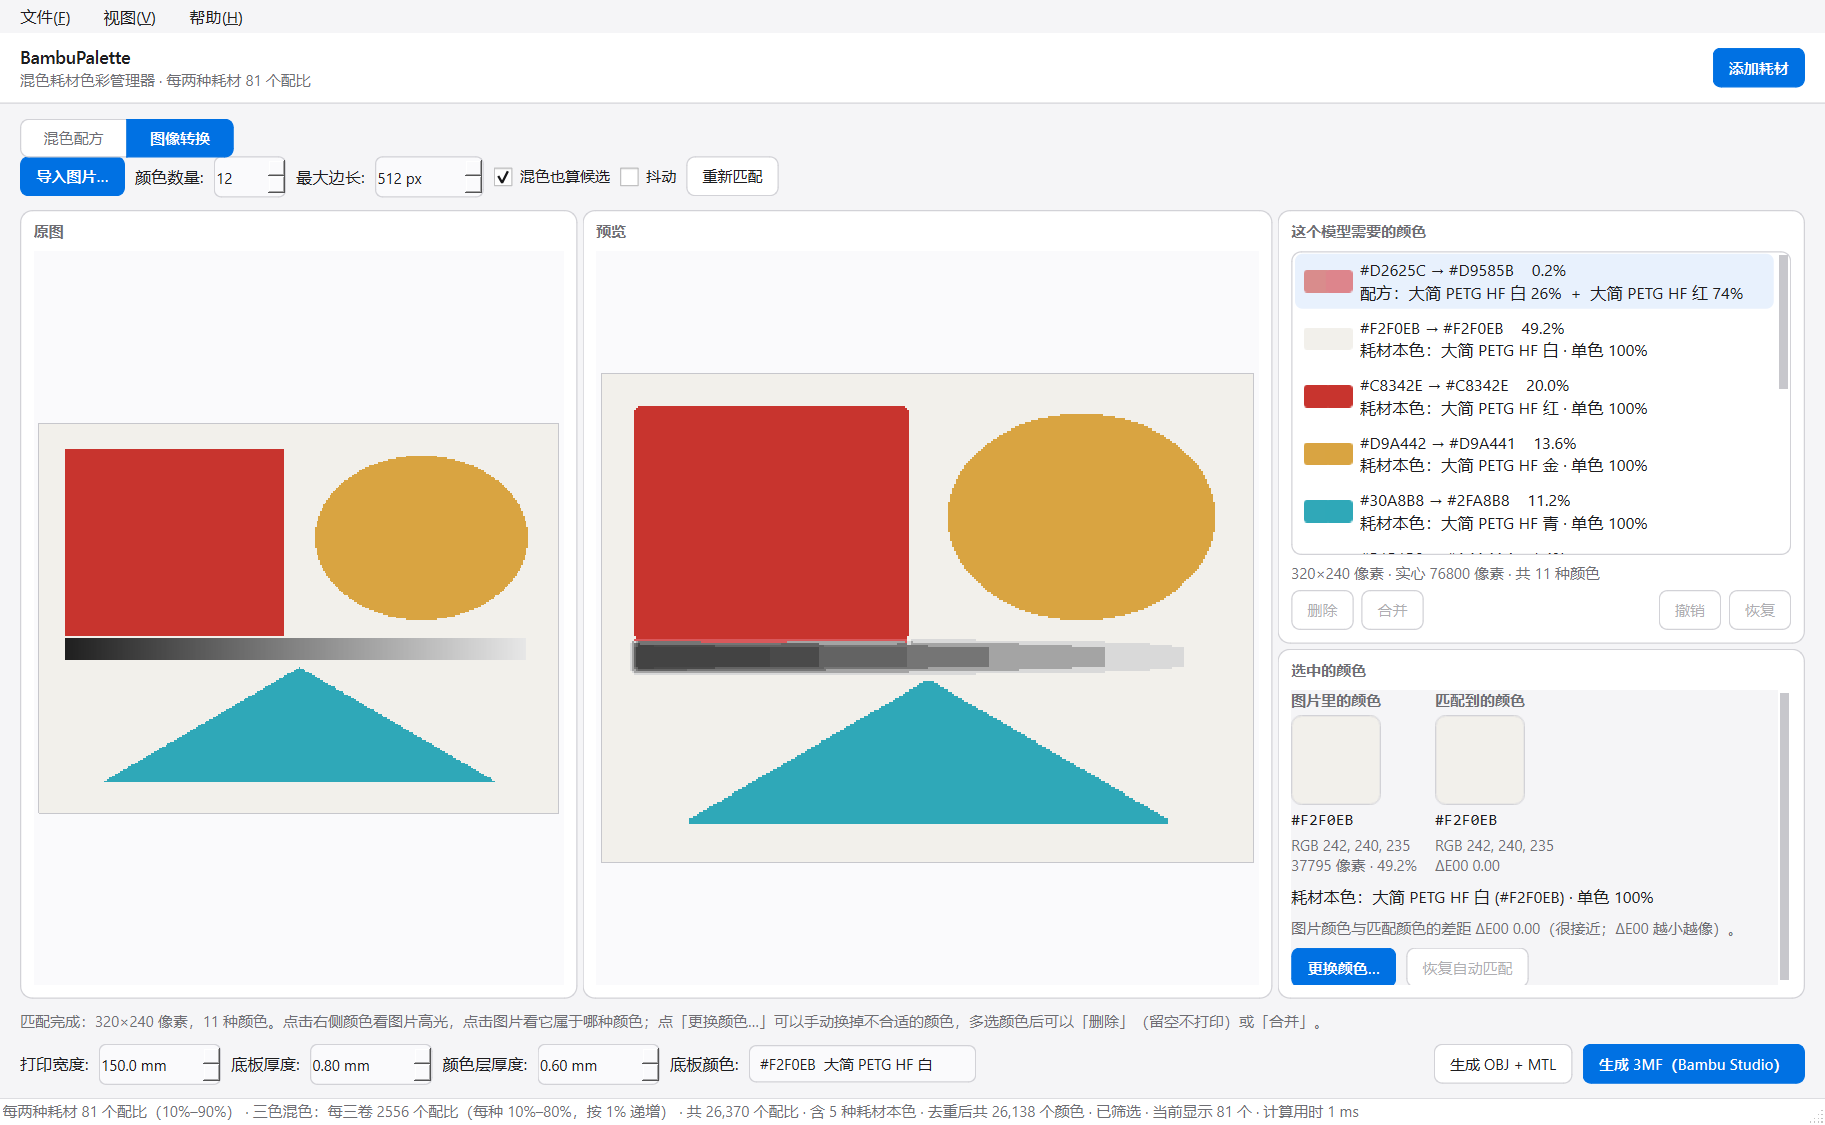
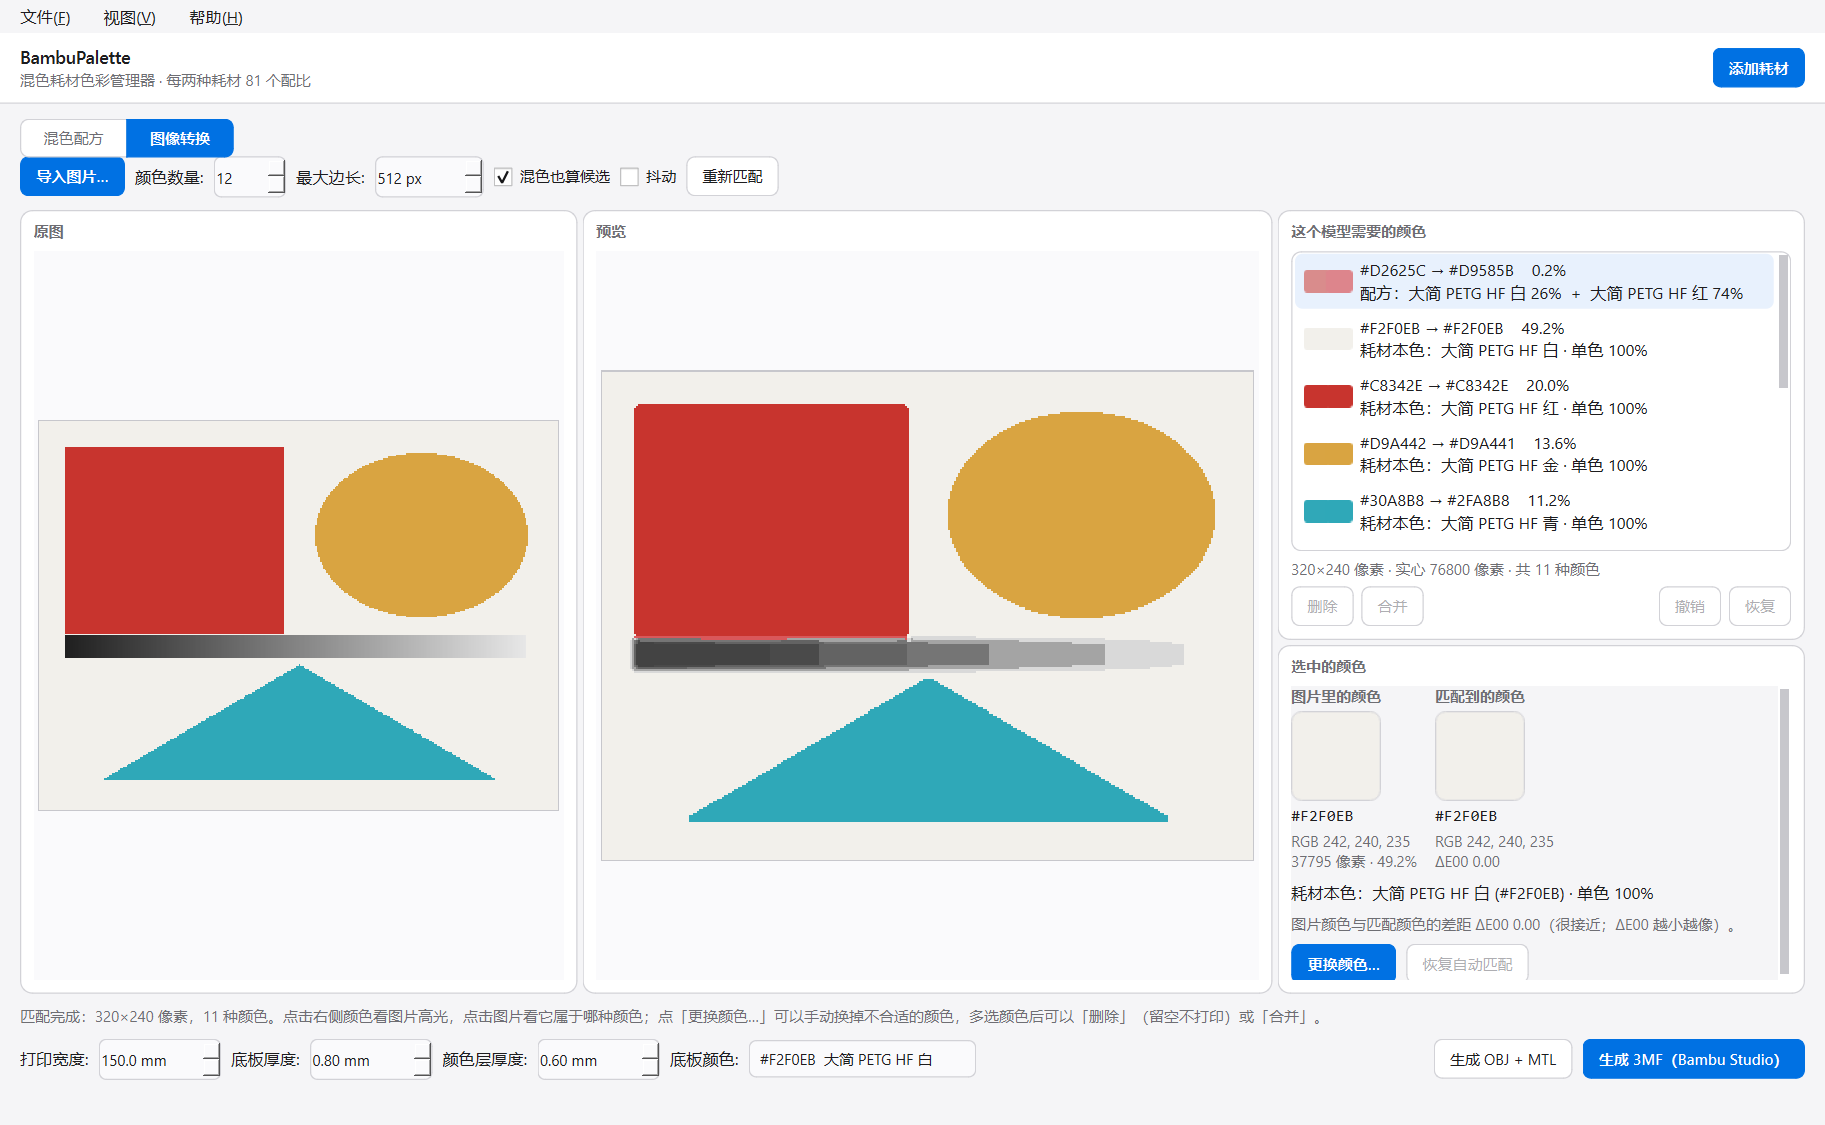
v1.6.1：底部说明在小窗口里完整折行，并且不再出现在「图像转换」页

diff --git a/app/ui/main_window.py b/app/ui/main_window.py
@@ -273,12 +273,37 @@ class MainWindow(QMainWindow):
         tabs.addTab(mix_page, "混色配方")
         tabs.addTab(self._picture_page, "图像转换")
         self._tabs = tabs
+        # Connected only once _tabs exists: adding the first tab already emits
+        # currentChanged, and the slot reads self._tabs.
+        tabs.currentChanged.connect(self._on_tab_changed)
 
         body = QWidget()
         layout = QVBoxLayout(body)
         layout.setContentsMargins(16, 12, 16, 10)
         layout.setSpacing(10)
         layout.addWidget(tabs, 1)
+
+        # The bottom line carries the one long sentence that explains how the
+        # whole table is built, plus the transient 「正在计算…」 / 「最接近…」
+        # messages.  It is a single line of ~1400 px at a normal font size, so
+        # two things matter:
+        #
+        # * it must be allowed to shrink (``Ignored`` horizontally), or its
+        #   minimumSizeHint becomes the window's minimum width — before it moved
+        #   here it lived in the grid panel and pinned that panel so hard the
+        #   splitter handle could not be dragged at all;
+        # * it must wrap, and live in a layout that honours the wrapped height,
+        #   or a 1020 px window silently clips the tail of the sentence.
+        #
+        # That is why it is the last row of the page body rather than an item in
+        # a QStatusBar: a status bar is one line high and would clip the second
+        # line the moment the sentence wraps.  The tooltip still carries the
+        # whole text for anyone who would rather hover than read.
+        self._status = QLabel("")
+        self._status.setProperty("role", "hint")
+        self._status.setWordWrap(True)
+        self._status.setSizePolicy(QSizePolicy.Policy.Ignored, QSizePolicy.Policy.Minimum)
+        layout.addWidget(self._status)
 
         central = QWidget()
         outer = QVBoxLayout(central)
@@ -287,18 +312,6 @@ class MainWindow(QMainWindow):
         outer.addWidget(topbar)
         outer.addWidget(body, 1)
         self.setCentralWidget(central)
-
-        # The bottom line carries the one long sentence that explains how the
-        # whole table is built.  It is a single unwrapped line of ~1400 px, so
-        # without an Ignored horizontal policy its minimumSizeHint would become
-        # the window's minimum width — and, before it moved here, the splitter's
-        # handle could not be dragged at all because the grid panel was pinned to
-        # that same width.  Ignored lets it shrink; the tooltip keeps the whole
-        # sentence reachable when the window is narrow.
-        self._status = QLabel("")
-        self._status.setProperty("role", "hint")
-        self._status.setSizePolicy(QSizePolicy.Policy.Ignored, QSizePolicy.Policy.Preferred)
-        self.statusBar().addWidget(self._status, 1)
 
         # Every hint, recipe and status line is text worth pasting elsewhere.
         selectable_text(self)
@@ -989,12 +1002,16 @@ class MainWindow(QMainWindow):
                 self._grid.setSelectedIndex(index, scroll=False)
         self._update_status()
 
+    def _on_tab_changed(self, index: int) -> None:
+        """The colour-table note belongs to 混色配方, so re-evaluate it."""
+        self._update_status()
+
     def _set_status_text(self, text: str) -> None:
         """Write the bottom line, keeping the full sentence in the tooltip.
 
-        The label is a single unwrapped line with an Ignored width policy, so a
-        long sentence is clipped rather than forcing the window wider.  The
-        tooltip is what makes the hidden tail reachable.
+        The label wraps, so a long sentence folds onto a second line instead of
+        forcing the window wider or being clipped — but its tail is still worth
+        keeping in the tooltip for a single-glance read.
         """
         self._status.setText(text)
         self._status.setToolTip(text)
@@ -1032,6 +1049,11 @@ class MainWindow(QMainWindow):
             note += " · 正在计算三色混色"
         elif self._build_seconds:
             note += f" · 计算用时 {self._build_seconds * 1000:.0f} ms"
+        if self._tabs.currentIndex() != 0:
+            # The sentence is about the colour table.  On 图像转换 it describes
+            # nothing the reader can see, and the picture page has a status line
+            # of its own right above this one.
+            note = ""
         self._set_status_text(note)
         self._update_filter_bar(shown, everything, count)
 

diff --git a/tools/smoke_app.py b/tools/smoke_app.py
@@ -553,9 +553,9 @@ def main() -> int:
     # Issue 4: the right-hand pane could not be dragged — it snapped.  A QLabel
     # holding the ~1400 px one-line note had no word wrap, and a non-wrapping
     # QLabel's minimumSizeHint IS that full width, so the grid pane pinned the
-    # splitter.  The note now lives in the status bar with an Ignored width
-    # policy, so no pane can be wider than the window by accident.
-    from PySide6.QtWidgets import QSizePolicy, QSplitter  # noqa: E402
+    # splitter.  The note now lives at the bottom of the page body with an
+    # Ignored width policy, so no pane can be wider than the window by accident.
+    from PySide6.QtWidgets import QSizePolicy, QSplitter, QStatusBar  # noqa: E402
 
     splitter = triple_window._tabs.widget(0).findChild(QSplitter)
     check(splitter is not None, "the 混色配方 page still has its splitter")
@@ -570,6 +570,33 @@ def main() -> int:
             == QSizePolicy.Policy.Ignored,
             "the bottom line lets the window shrink instead of pinning its width",
         )
+    # And it must WRAP: at the minimum window size a one-line status bar clipped
+    # the tail of the sentence mid-glyph.  So it is a wrapping label in the body
+    # layout (which honours height-for-width), not an item in a QStatusBar.
+    check(triple_window._status.wordWrap(), "the bottom line wraps instead of clipping")
+    check(
+        triple_window._status.sizePolicy().hasHeightForWidth(),
+        "the layout is told the wrapped height, so the second line is not cut off",
+    )
+    check(
+        triple_window.findChild(QStatusBar) is None,
+        "the window has no one-line status bar to clip the sentence",
+    )
+
+    # The sentence is about the colour table, so 图像转换 must not show it.
+    tab_note = triple_window._status.text()
+    triple_window._tabs.setCurrentIndex(1)
+    app.processEvents()
+    check(
+        triple_window._status.text() == "",
+        f"the colour-table sentence is hidden on 图像转换, got {triple_window._status.text()[:40]!r}",
+    )
+    triple_window._tabs.setCurrentIndex(0)
+    app.processEvents()
+    check(
+        triple_window._status.text() == tab_note,
+        "switching back to 混色配方 restores the colour-table sentence",
+    )
     triple_window.close()
 
     # --- the grid's flat layout, exercised with a stub -------------------------

diff --git a/app/selftest.py b/app/selftest.py
@@ -544,6 +544,7 @@ def run_selftest(*, report_path: Path | None = None) -> int:
     from PySide6.QtWidgets import QLabel as _QLabel
     from PySide6.QtWidgets import QSizePolicy as _QSizePolicy
     from PySide6.QtWidgets import QSplitter as _QSplitter
+    from PySide6.QtWidgets import QStatusBar as _QStatusBar
 
     from .spectral import color as _selftest_colour
 
@@ -555,6 +556,24 @@ def run_selftest(*, report_path: Path | None = None) -> int:
     check(
         window._status.sizePolicy().horizontalPolicy() == _QSizePolicy.Policy.Ignored,
         "the bottom line can never pin the window's width",
+    )
+    check(window._status.wordWrap(), "the bottom line wraps instead of clipping its tail")
+    check(
+        window.findChild(_QStatusBar) is None,
+        "the sentence is not in a one-line status bar that would cut it off",
+    )
+    tab_note = window._status.text()
+    window._tabs.setCurrentIndex(1)
+    app.processEvents()
+    check(
+        window._status.text() == "",
+        f"the colour-table sentence is hidden on 图像转换, got {window._status.text()[:40]!r}",
+    )
+    window._tabs.setCurrentIndex(0)
+    app.processEvents()
+    check(
+        window._status.text() == tab_note,
+        "switching back to 混色配方 restores the colour-table sentence",
     )
     recipe_splitter = window._tabs.widget(0).findChild(_QSplitter)
     if recipe_splitter is not None:

diff --git a/app/__init__.py b/app/__init__.py
@@ -2,6 +2,6 @@
 
 from __future__ import annotations
 
-__version__ = "1.6.0"
+__version__ = "1.6.1"
 APP_NAME = "BambuPalette"
 APP_NAME_ZH = "混色耗材色彩管理器"

diff --git a/docs/算法说明.md b/docs/算法说明.md
@@ -1283,14 +1283,36 @@ def _dim_pixmap(self):
 宽度**——于是这个标签的最小宽度成了 1400 px，中间那一栏再也压不下去，
 `QSplitter` 的拖动条只能「啪」地跳到另一个位置，看起来像拖不动。
 
-所以这条说明搬到了**底部状态栏**，并且给状态栏标签设了
+所以这条说明搬到了**底部**，并且给标签设了
 
 ```python
-self._status.setSizePolicy(QSizePolicy.Policy.Ignored, QSizePolicy.Policy.Preferred)
+self._status.setWordWrap(True)
+self._status.setSizePolicy(QSizePolicy.Policy.Ignored, QSizePolicy.Policy.Minimum)
 ```
 
 `Ignored` 的意思是「窗口变窄时尽管压我」，它于是只会折行、不会顶宽窗口。
-完整文字同时塞进 tooltip，折行折掉的尾巴仍然看得到。
+完整文字同时塞进 tooltip，万一还没看全，悬停也能读到。
+
+**这里踩过一次坑，值得记下来。** 第一版把它放在 `QMainWindow` 的
+`QStatusBar` 里，只设了 `Ignored` 却没设换行。`Ignored` 解决了「顶宽窗口」，
+却没解决「装不下」：状态栏只有一行高，1020×640（程序的最小尺寸）下这句话
+在第一个中文字符的中间被硬切掉，连省略号都没有。`setWordWrap(True)` 单独
+也救不了——`QStatusBar` 不会因为子标签变高就长高。
+
+所以它现在是**页面主体布局的最后一行**：
+
+```python
+layout.addWidget(tabs, 1)
+layout.addWidget(self._status)
+```
+
+`QLabel` 开了换行之后 `hasHeightForWidth()` 为真，`QVBoxLayout` 会照着折行后的
+高度给它让位，第二行就完整露出来了。代价是 `QMainWindow` 从此不再创建状态栏
+（也就没有了右下角那个拖拽改窗口大小的小三角），换来一句话任何时候都读得全。
+
+再往后一步：这句话讲的是颜色表，那么在**「图像转换」页就是废话**——而且那一页
+自己上边已经有一条状态行了。所以 `_tabs.currentChanged` 接到 `_on_tab_changed`，
+切页时重新算一次，当前页不是「混色配方」就把 `note` 置空。
 
 顺带一提，网格面板下部原来还有一行「耗材 5 种 · 母材组合 10 对 · 混色 810 个
 · 去掉重复后 809 个颜色 · 计算用时 4 ms」，和这条说明说的是同一件事，

diff --git a/README.md b/README.md
@@ -39,7 +39,7 @@
    - 2 种耗材 → 81 个混色 + 2 个本色 = **83 个颜色**
    - 3 种耗材 → 243 + 3 = **246 个颜色**
    - 本色项**跟着「排序」下拉框排在同一条队列里**，不会被顶到最前面。按 RGB 时它就是按 RGB 插在中间（例如 `#17181C` 排在最暗的位置），按明度 / 色相 / 名称也一样；只有「按母材组合」会让它们聚在最前面，因为它们本来就不属于任何一对母材。
-   - 表格**下面是状态栏那一行**，写着当前规则的完整说明（两色 81 个配比、三色每三卷 2556 个配比、共多少个配比 / 本色 / 去重后多少个颜色、按什么排列、筛选时另外有多少个没显示）。窗口窄的时候它会自己折行，**不会把窗口撑宽**——左边「我的耗材」和右边「混色配方」之间的分隔条可以随便拖。
+   - 表格**下面是状态栏那一行**，写着当前规则的完整说明（两色 81 个配比、三色每三卷 2556 个配比、共多少个配比 / 本色 / 去重后多少个颜色、按什么排列、筛选时另外有多少个没显示）。窗口窄的时候它会自己折行，**不会把窗口撑宽**——左边「我的耗材」和右边「混色配方」之间的分隔条可以随便拖。（这句话讲的是这张颜色表，所以在「图像转换」页不显示，免得占着一行说无关的事；切回「混色配方」立刻恢复。）
 7. **删除耗材**：选中后按 **Del**（或 Backspace）直接删除，点「删除」按钮也是**立刻删掉、不再弹确认框**。删错了重新加一个即可。
 8. **颜色是「填」进去的，不是「挑」出来的**：程序里没有弹出式取色器（那个带色轮和吸管、按钮还是英文的窗口已经删掉了）。所有颜色都用同一个输入框填写——上面一行是 `#RRGGBB`，下面一行是 R / G / B 三个数字框，填哪个都行，两边会互相同步。
 
